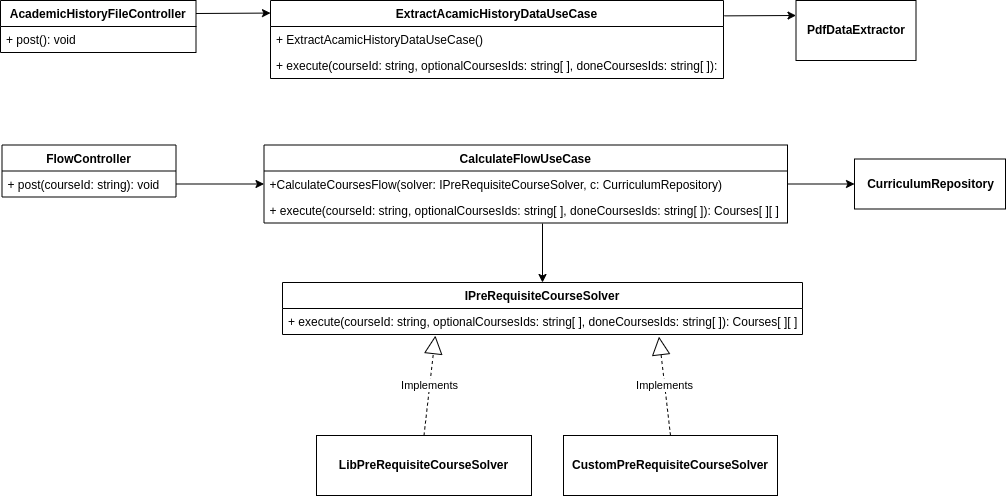
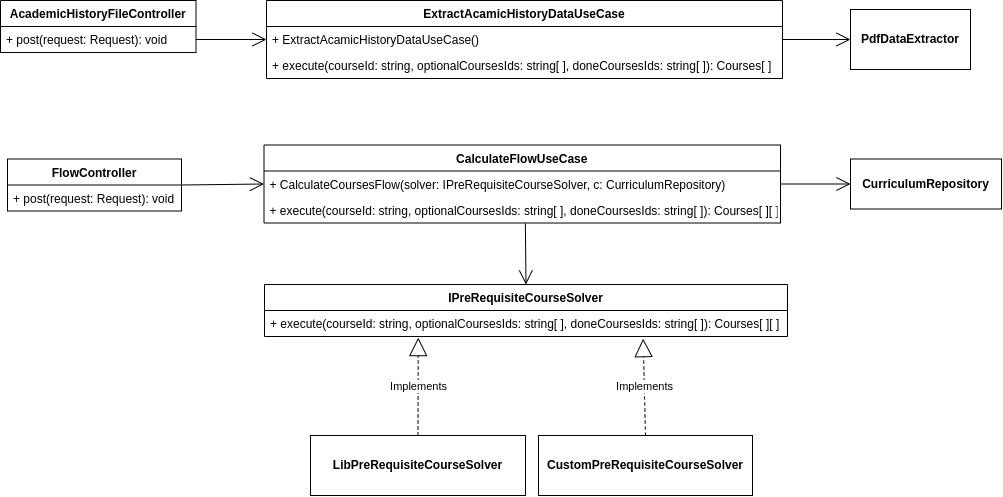
docs: especifica relacionamentos em diagrama de classes (#131)
docs: especifica relacionamentos

diff --git a/docs/Modelagem/diagrama-classes.md b/docs/Modelagem/diagrama-classes.md
@@ -1,9 +1,10 @@
 # Diagrama de classes
 
 ## Histórico de versões
-| Data       | Versão | Descrição            | Autor(a)                                                                                                                      | Revisor(a)                               |
-| ---------- | ------ | -------------------- | ----------------------------------------------------------------------------------------------------------------------------- | ---------------------------------------- |
-| 06/06/2022 | 1.0    | Criação do documento | [Thaís Rebouças](https://github.com/Thais-ra), [Yudi](https://github.com/yudi-azvd), [Irwin](https://github.com/irwinschmitt) | [Irwin](https://github.com/irwinschmitt) |
+| Data       | Versão | Descrição                        | Autor(a)                                                                                                                      | Revisor(a)                                   |
+| ---------- | ------ | -------------------------------- | ----------------------------------------------------------------------------------------------------------------------------- | -------------------------------------------- |
+| 06/06/2022 | 1.0    | Criação do documento             | [Thaís Rebouças](https://github.com/Thais-ra), [Yudi](https://github.com/yudi-azvd), [Irwin](https://github.com/irwinschmitt) | [Irwin](https://github.com/irwinschmitt)     |
+| 15/06/2022 | 1.1    | Especificação de relacionamentos | [Yudi Yamane](https://github.com/yudi-azvd)                                                                                   | [Amanda Nobre](https://github.com/AmandaNbr) |
 
 
 ## Introdução
@@ -97,7 +98,6 @@ de fazer essa troca.
 2) Para calcular a recomendação de fluxo, `CalculateFlowUseCase` precisa de acesso
 aos currículos e para isso é usado o padrão de repositório em 
 `CurriculumRepository`, que é injetado como dependência.
-
 
 ## Referências
 
